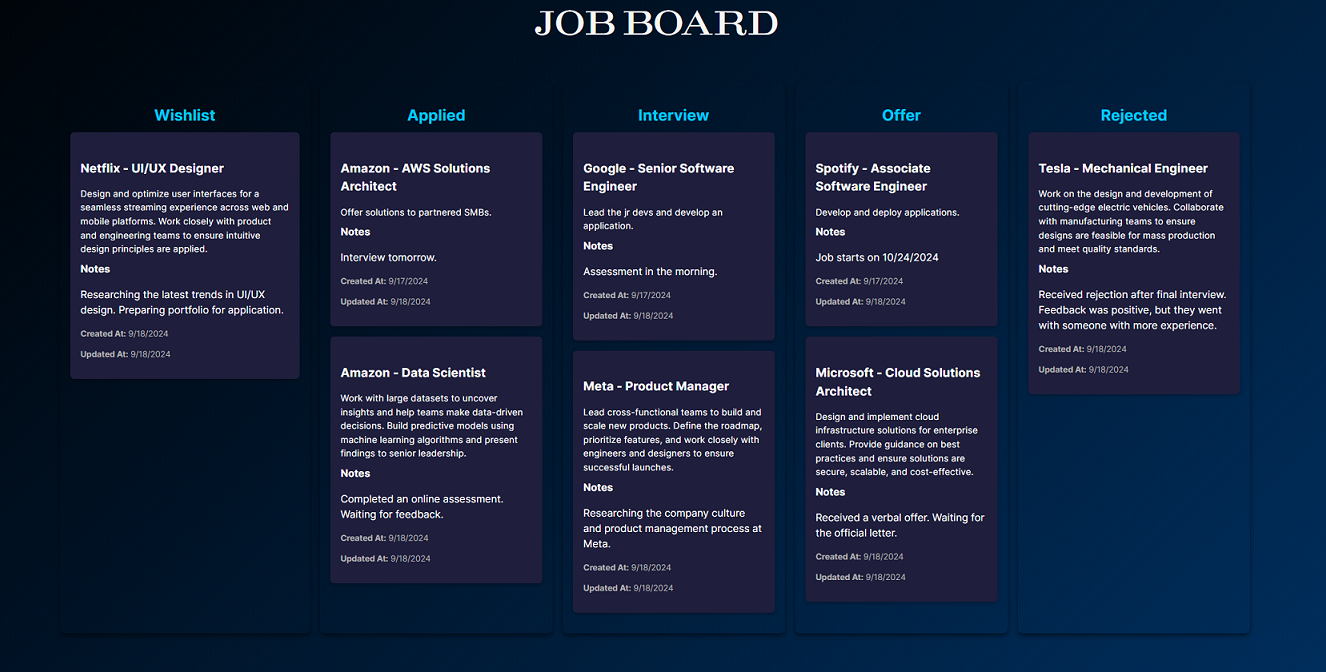
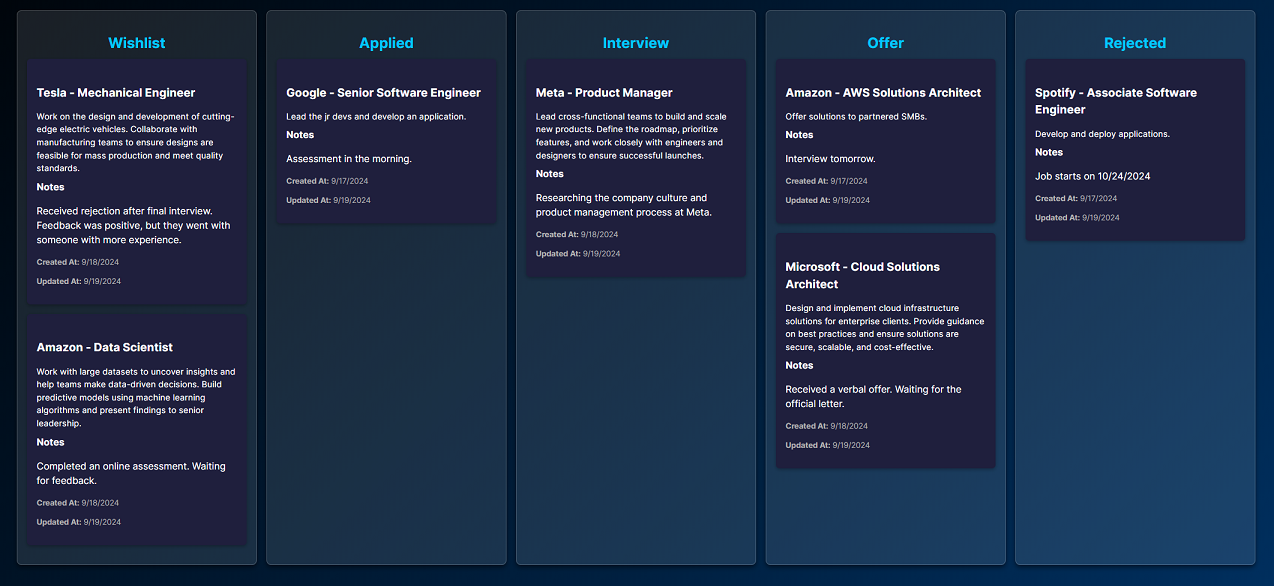
Move README to root

diff --git a/frontend/src/pages/JobBoardPage/JobBoardPage.module.css b/frontend/src/pages/JobBoardPage/JobBoardPage.module.css
@@ -2,15 +2,17 @@
   display: flex;
   overflow-x: auto;
   padding: 1rem;
-  max-width: 75%;
+  max-width: 100%;
 }
 
 .column {
   border-radius: 8px;
   margin: 0 0.5rem;
   padding: 1rem;
-  min-width: 20vmin;
   box-shadow: 0 4px 8px rgba(0, 0, 0, 0.5);
+  width: 25rem;
+  background: rgba(255, 255, 255, 0.1);
+  border: 1px solid rgba(255, 255, 255, 0.2);
 }
 
 .columnTitle {
@@ -106,8 +108,3 @@ h1 {
 .confirmationButton.cancel:hover {
   color: #1a1aff;
 }
-
-
-
-
-

diff --git a/README.md b/README.md
@@ -55,7 +55,7 @@ AppTrackr is a job application tracking tool built with the MERN stack (MongoDB,
 
 # Screenshot
 
-![Imgur](https://i.imgur.com/AfVj5eO.png)
+![Imgur](https://i.imgur.com/LhKJSRs.png)
 
 
 # Getting Started
